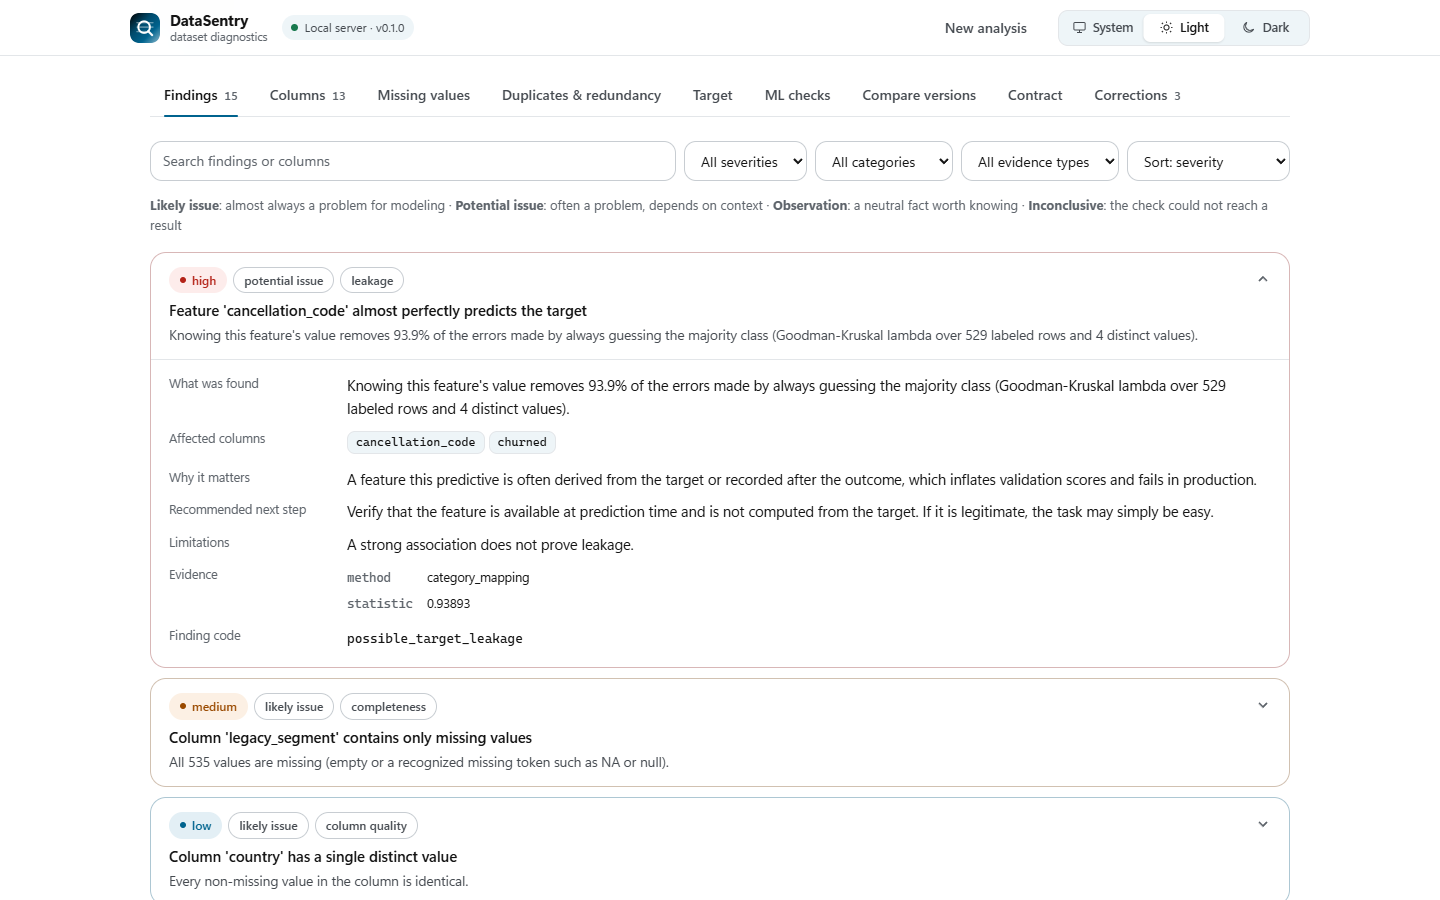
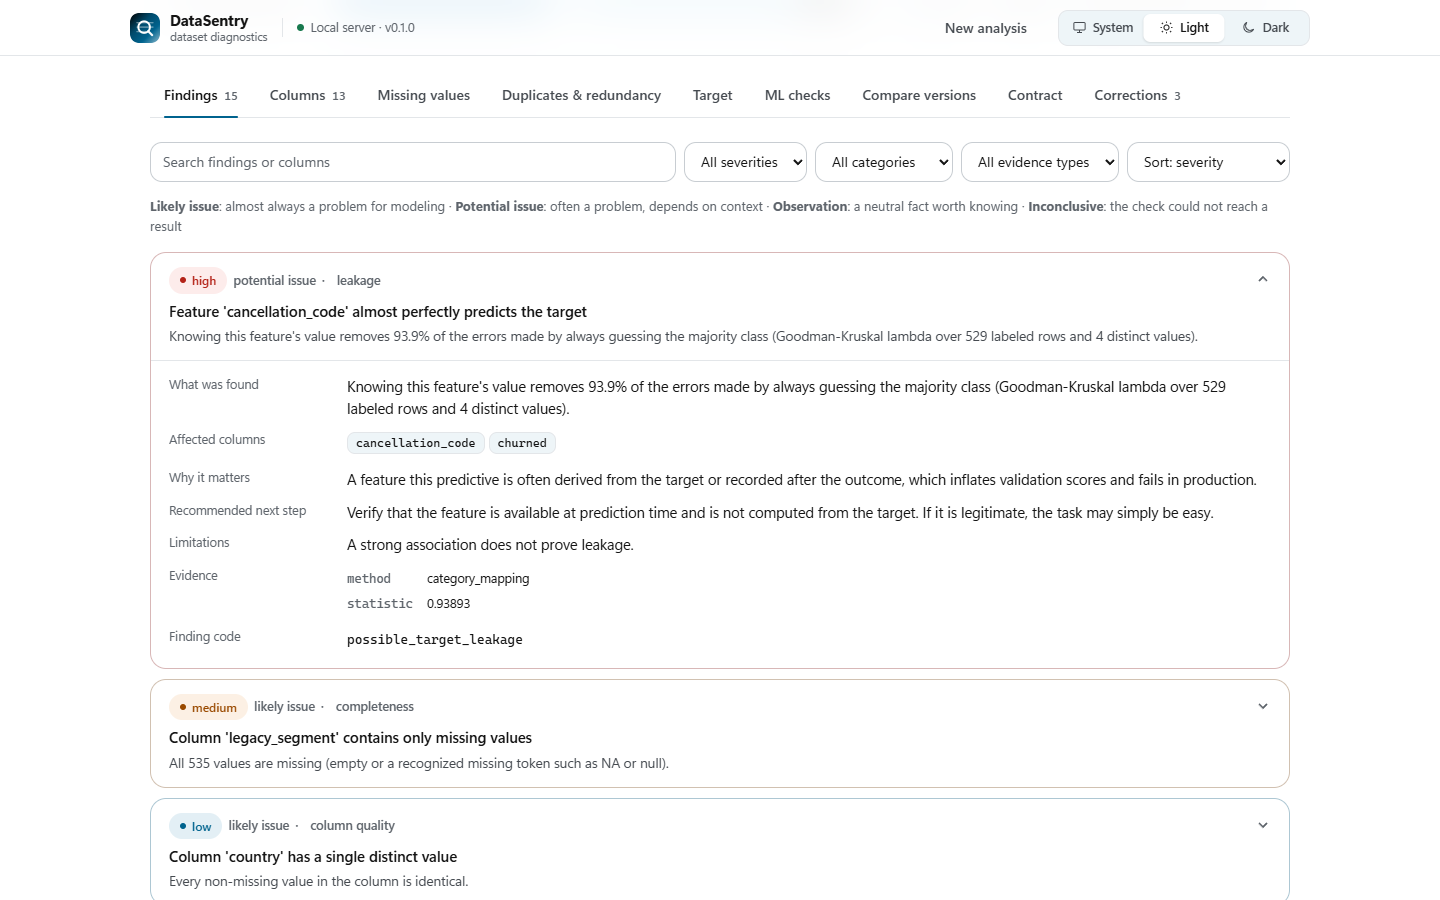
Apply design review fixes to the azure redesign
- Pills only for severity and status: kind, category, column flags and
  verdict labels become meta text; the server status is a dot and text.
- Remove the upload card's decorative shadow (surface step + hairline).
- Mobile: headline, lede, then the upload card, then the capability
  list, so the dropzone sits in the first viewport.
- Flatten nested tiles: checks by category become a hairline list (no
  orphan tile), key-value readouts lose their fills, the overview is one
  strip divided by hairlines with column types as a full-width row.
- Summary headline at display scale; summary card fills its row with the
  score-policy disclosure anchored at the bottom.
- One drawn chevron for disclosures instead of the browser triangle.
- README screenshots recaptured.

diff --git a/frontend/style.css b/frontend/style.css
@@ -138,8 +138,8 @@ a { color: var(--accent-ink); text-underline-offset: 3px; }
 .brand-name { font-family: var(--font-display); font-size: 15px; font-weight: 650; letter-spacing: -0.01em; }
 .brand-tag { font-size: 11.5px; color: var(--text-3); }
 .topbar-meta {
-  display: inline-flex; align-items: center; gap: 7px; margin-right: auto; padding: 3px 10px 3px 9px;
-  border-radius: 999px; background: var(--surface-2); color: var(--text-2); font-size: 12px;
+  display: inline-flex; align-items: center; gap: 7px; margin-right: auto; padding-left: 14px;
+  border-left: 1px solid var(--line); color: var(--text-3); font-size: 12.5px;
 }
 /* Server status dot: neutral while connecting, then the real health check result. */
 .topbar-meta::before { content: ""; width: 7px; height: 7px; border-radius: 50%; background: var(--text-3); }
@@ -236,8 +236,8 @@ input[type="search"].input { flex: 1 1 220px; }
 
 .upload-card {
   display: grid; gap: 18px; padding: 24px; border-radius: var(--r-section);
-  background: var(--surface); color: var(--text); border: 1px solid light-dark(transparent, #2b2b2b);
-  box-shadow: 0 24px 48px rgba(0, 0, 0, 0.18);
+  background: var(--surface); color: var(--text);
+  border: 1px solid light-dark(rgba(255, 255, 255, 0.6), #2b2b2b);
 }
 .dropzone {
   display: flex; align-items: center; gap: 16px; text-align: left;
@@ -271,8 +271,21 @@ input[type="search"].input { flex: 1 1 220px; }
 .parse-options { border: 1px solid var(--line); border-radius: var(--r-input); background: var(--surface); }
 .parse-options > summary {
   cursor: pointer; padding: 10px 14px; font-size: 13px; font-weight: 550; color: var(--text-2);
-  border-radius: var(--r-input); list-style-position: inside;
+  border-radius: var(--r-input);
 }
+/* Disclosures share one drawn chevron (it turns down when open) instead of the browser triangle. */
+.parse-options > summary, .score-policy summary, .split-limits summary {
+  display: flex; align-items: center; gap: 10px; list-style: none;
+}
+.parse-options > summary::-webkit-details-marker, .score-policy summary::-webkit-details-marker,
+.split-limits summary::-webkit-details-marker { display: none; }
+.parse-options > summary::before, .score-policy summary::before, .split-limits summary::before {
+  content: ""; flex: none; width: 6px; height: 6px; margin: 0 2px;
+  border-right: 1.5px solid currentColor; border-bottom: 1.5px solid currentColor;
+  transform: rotate(-45deg); transition: transform var(--t-base) var(--ease-out);
+}
+.parse-options[open] > summary::before, .score-policy[open] summary::before,
+.split-limits[open] summary::before { transform: rotate(45deg); }
 .parse-options > summary:hover { color: var(--text); }
 .parse-options[open] > summary { border-bottom: 1px solid var(--line); border-radius: var(--r-input) var(--r-input) 0 0; }
 .parse-grid { display: grid; grid-template-columns: repeat(2, minmax(0, 1fr)); gap: 12px; padding: 14px; }
@@ -313,9 +326,12 @@ input[type="search"].input { flex: 1 1 220px; }
   transition: background-color var(--t-base) ease, border-color var(--t-base) ease;
 }
 .card-title { font-size: 15px; font-weight: 650; letter-spacing: -0.01em; margin-bottom: 14px; }
-.summary-grid { display: grid; grid-template-columns: minmax(0, 1.2fr) minmax(0, 1fr); gap: 16px; margin-bottom: 16px; align-items: start; }
+.summary-grid { display: grid; grid-template-columns: minmax(0, 1.2fr) minmax(0, 1fr); gap: 16px; margin-bottom: 16px; align-items: stretch; }
+/* The summary card fills its row: the verdict leads, the score-policy disclosure anchors the bottom. */
+.summary-card { display: flex; flex-direction: column; }
+.summary-card .score-policy { margin-top: auto; padding-top: 14px; border-top: 1px solid var(--line); }
 .summary-head { display: flex; align-items: center; gap: 10px; flex-wrap: wrap; margin-bottom: 12px; }
-.summary-headline { font-family: var(--font-display); font-size: 20px; font-weight: 600; letter-spacing: -0.015em; line-height: 1.35; margin-bottom: 16px; text-wrap: pretty; }
+.summary-headline { font-family: var(--font-display); font-size: clamp(22px, 2.4vw, 30px); font-weight: 600; letter-spacing: -0.025em; line-height: 1.2; margin-bottom: 18px; text-wrap: balance; }
 .severity-counts { display: flex; flex-wrap: wrap; gap: 8px; margin-bottom: 14px; }
 .not-evaluated { margin: 0 0 12px; padding-left: 18px; color: var(--text-3); font-size: 12.5px; }
 .score-policy summary { cursor: pointer; color: var(--text-2); font-size: 13px; }
@@ -332,25 +348,40 @@ input[type="search"].input { flex: 1 1 220px; }
 .sev-low { color: var(--low); background: var(--low-soft); }
 .st-pass { color: var(--ok); background: var(--ok-soft); }
 .st-not_evaluated, .sev-info { color: var(--info); background: var(--info-soft); }
-.pill-outline { border-color: var(--line-strong); color: var(--text-2); background: transparent; font-weight: 500; }
+/* Kind, category and flags are meta text, not pills: only severity and status keep the pill shape. */
+.pill-outline {
+  padding: 0; border: 0; border-radius: 0; background: transparent;
+  color: var(--text-3); font-weight: 500; font-size: 12.5px;
+}
+.pill-outline + .pill-outline::before { content: "·"; margin-right: 6px; color: var(--text-3); }
+.finding-tags .pill-outline:first-of-type { margin-left: 4px; }
+.split-verdict .pill-outline, .card .split-verdict .pill-outline { color: var(--accent-ink); font-weight: 650; font-size: 13px; }
 .pill.is-zero { color: var(--text-3); background: transparent; border-color: var(--line); }
 
-.category-grid { display: grid; grid-template-columns: repeat(auto-fill, minmax(150px, 1fr)); gap: 8px; }
+.category-grid { display: grid; }
 .category-cell {
-  display: grid; gap: 8px; padding: 12px; border-radius: var(--r-tile);
-  background: var(--surface-2); border: 1px solid transparent;
-  transition: border-color var(--t-fast) ease, background-color var(--t-fast) ease;
+  display: grid; grid-template-columns: minmax(0, 1fr) auto 84px; gap: 12px; align-items: center;
+  width: 100%; padding: 9px 0; background: none; border: 0; border-top: 1px solid var(--line);
 }
+.category-cell:first-child { border-top: 0; padding-top: 0; }
+.category-cell > :last-child { text-align: right; font-variant-numeric: tabular-nums; }
 button.category-cell { text-align: left; cursor: pointer; color: inherit; font: inherit; }
-button.category-cell:hover { border-color: var(--accent-ink); }
-.category-name { font-weight: 600; font-size: 13px; text-transform: capitalize; }
+button.category-cell:hover .category-name { color: var(--accent-ink); }
+button.category-cell:focus-visible { outline-offset: 2px; border-radius: 6px; }
+.category-name { font-weight: 550; font-size: 14px; text-transform: capitalize; transition: color var(--t-fast) ease; }
 
-.stat-grid { display: grid; grid-template-columns: repeat(auto-fit, minmax(160px, 1fr)); gap: 12px; margin-bottom: 32px; }
-.stat { padding: 16px 18px; border-radius: 16px; }
+/* The overview is one strip: hairlines between cells come from a 1px gap over the line colour. */
+.stat-grid {
+  display: grid; grid-template-columns: repeat(6, minmax(0, 1fr)); gap: 1px; margin-bottom: 36px;
+  background: var(--line); border: 1px solid var(--line); border-radius: var(--r-card); overflow: hidden;
+}
+.stat-grid > .card { border: 0; border-radius: 0; }
+.stat { padding: 18px 20px; }
 .stat-label { color: var(--text-3); font-size: 12.5px; }
 .stat-value { font-family: var(--font-display); font-size: 26px; font-weight: 650; letter-spacing: -0.02em; line-height: 1.25; font-variant-numeric: tabular-nums; }
 .stat-sub { color: var(--text-3); font-size: 12px; font-variant-numeric: tabular-nums; }
-.stat-wide { grid-column: span 2; }
+.stat-wide { grid-column: 1 / -1; display: grid; grid-template-columns: minmax(140px, auto) minmax(0, 1fr) auto; gap: 8px 24px; align-items: center; }
+.stat-wide .type-bar { margin: 0; }
 .type-bar { display: flex; gap: 2px; height: 8px; border-radius: 999px; overflow: hidden; margin: 10px 0; }
 .type-bar span { display: block; height: 100%; }
 .type-legend { display: flex; flex-wrap: wrap; gap: 4px 12px; font-size: 12px; color: var(--text-2); }
@@ -447,8 +478,8 @@ button.chip:hover { border-color: var(--accent-ink); color: var(--accent-ink); }
 .columns-layout { display: grid; grid-template-columns: minmax(0, 1.25fr) minmax(0, 1fr); gap: 16px; align-items: start; }
 .column-detail { position: sticky; top: 76px; max-height: calc(100vh - 96px); overflow: auto; }
 .column-detail h2 { font-family: var(--mono); font-size: 15px; font-weight: 600; overflow-wrap: anywhere; margin-bottom: 4px; }
-.kv-grid { display: grid; grid-template-columns: repeat(auto-fill, minmax(120px, 1fr)); gap: 8px; margin: 14px 0; }
-.kv { padding: 10px 12px; border-radius: var(--r-tile); background: var(--surface-2); }
+.kv-grid { display: grid; grid-template-columns: repeat(auto-fill, minmax(120px, 1fr)); gap: 0 20px; margin: 14px 0; }
+.kv { padding: 10px 0; border-top: 1px solid var(--line); }
 .kv span { display: block; font-size: 11.5px; color: var(--text-3); margin-bottom: 1px; }
 .kv b { font-weight: 600; font-variant-numeric: tabular-nums; overflow-wrap: anywhere; }
 .section-label { font-size: 12px; font-weight: 600; color: var(--text-3); margin: 18px 0 8px; }
@@ -526,7 +557,7 @@ button.chip:hover { border-color: var(--accent-ink); color: var(--accent-ink); }
   .upload-view { min-height: 0; gap: 32px; padding: 40px 28px 28px; background: linear-gradient(165deg, #000000 0%, #004a6b 42%, #00638e 72%, #8cb9cc 100%); }
   .hero h1 { max-width: 18ch; }
   .column-detail { position: static; max-height: none; }
-  .stat-wide { grid-column: span 1; }
+  .stat-grid { grid-template-columns: repeat(3, minmax(0, 1fr)); }
 }
 @media (max-width: 560px) {
   main { padding: 16px 16px 64px; }
@@ -536,13 +567,19 @@ button.chip:hover { border-color: var(--accent-ink); color: var(--accent-ink); }
   .topbar .btn-ghost { padding: 0 10px; }
   .theme-option { padding: 0 8px; }
   .theme-option-label { position: absolute; width: 1px; height: 1px; overflow: hidden; clip-path: inset(50%); white-space: nowrap; }
-  .upload-view { padding: 32px 18px 18px; border-radius: var(--r-section); gap: 28px; }
-  .hero h1 { font-size: 36px; }
-  .lede { font-size: 16px; margin-bottom: 24px; }
+  .upload-view { padding: 28px 18px 18px; border-radius: var(--r-section); gap: 0; }
+  .hero { display: contents; }
+  .hero h1 { order: 1; font-size: 34px; margin-bottom: 12px; }
+  .lede { order: 2; font-size: 15.5px; margin-bottom: 22px; }
+  .upload-card { order: 3; }
+  .check-list { order: 4; margin-top: 28px; padding: 0 4px 8px; }
   .upload-card { padding: 16px; border-radius: 20px; }
   .dropzone { flex-wrap: wrap; }
   .dropzone-key { width: 100%; justify-content: center; }
   .card { padding: 18px; }
+  .stat-grid { grid-template-columns: repeat(2, minmax(0, 1fr)); }
+  .stat-wide { grid-template-columns: minmax(0, 1fr); }
+  .stat { padding: 14px 16px; }
   .detail-list { grid-template-columns: minmax(0, 1fr); gap: 2px; }
   .detail-list dd { margin-bottom: 10px; }
   .bar-row { grid-template-columns: minmax(0, 1fr) 90px; }
